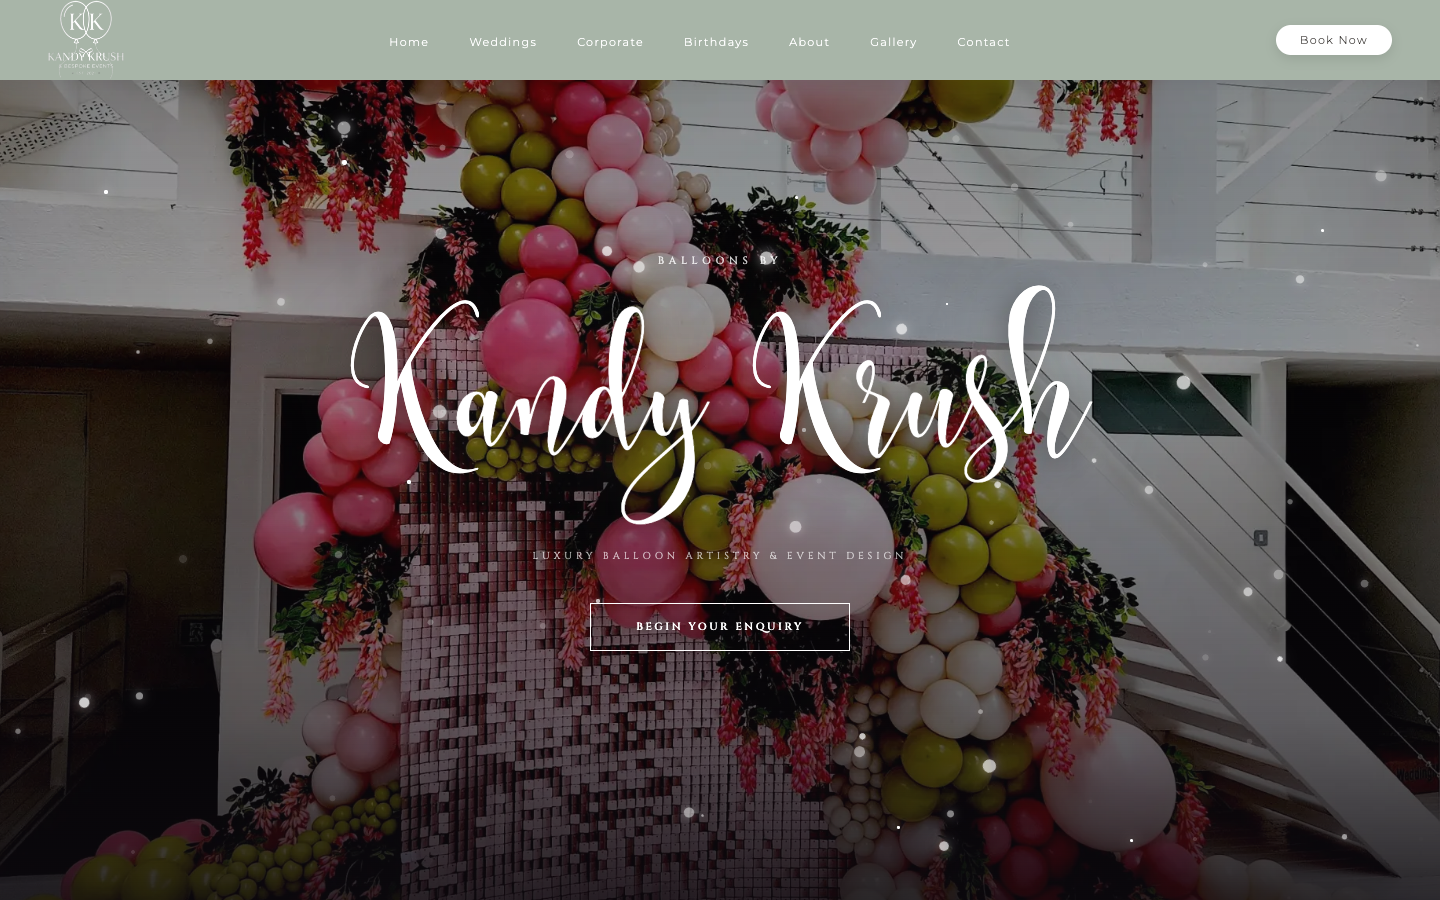
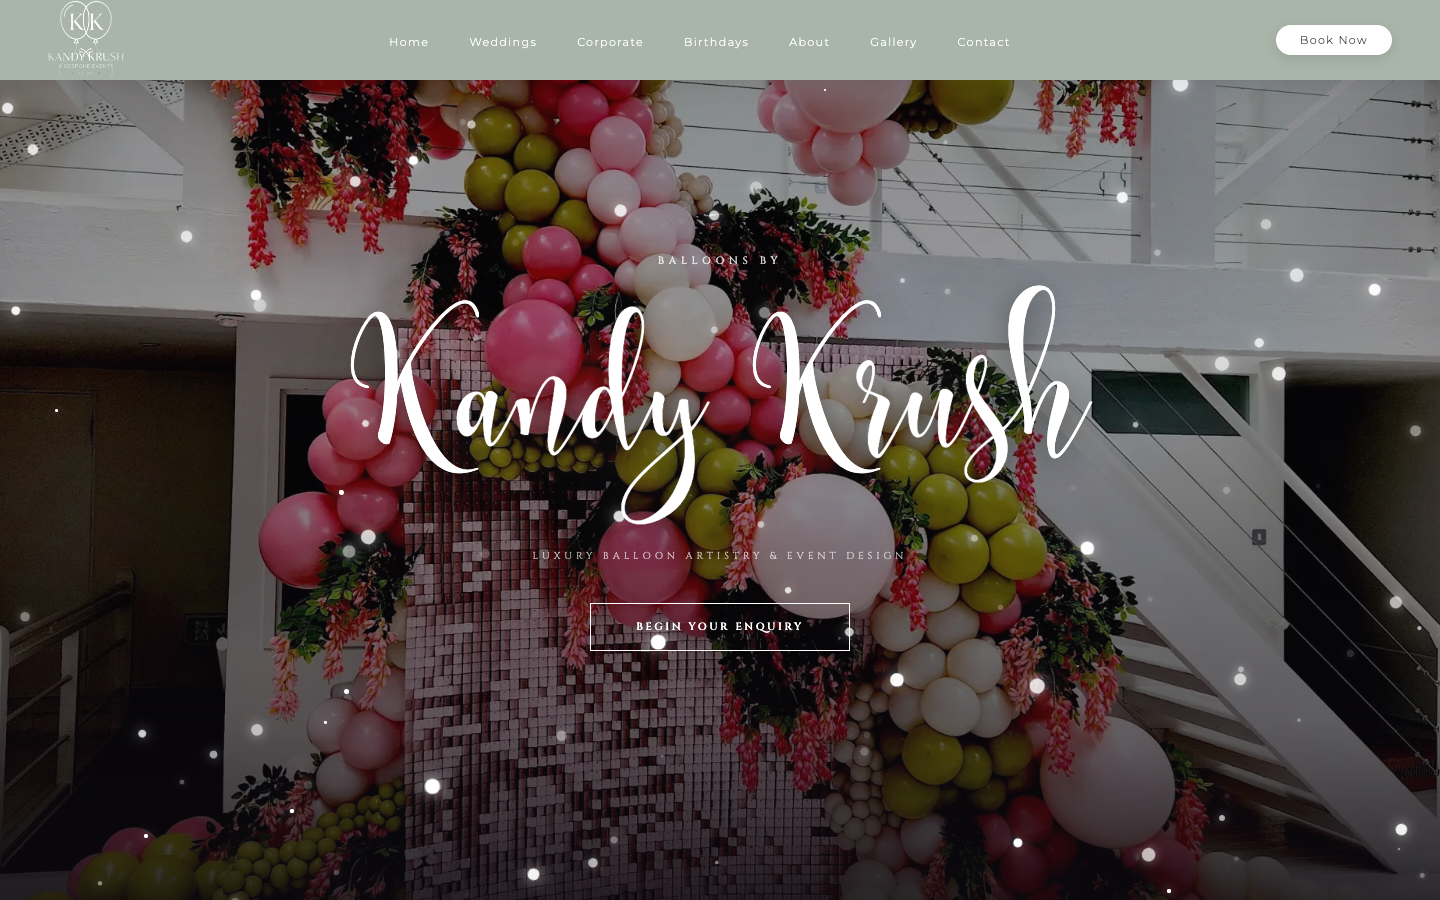
Use static screenshot for Kandy Krush hero card (X-Frame-Options blocks iframe)

diff --git a/index.html b/index.html
@@ -127,10 +127,8 @@
                                 </div>
                                 <span class="chrome-url">kandykrush.co.uk</span>
                             </div>
-                            <div class="preview-iframe-wrap" id="mobilePreviewWrap">
-                                <iframe sandbox="allow-same-origin"
-                                    data-src="https://kandykrush.co.uk/" scrolling="no"
-                                    title="Kandy Krush website preview"></iframe>
+                            <div class="preview-iframe-wrap preview-static" id="mobilePreviewWrap">
+                                <img src="images/kandy-krush.webp" alt="Kandy Krush website preview" loading="lazy">
                             </div>
                         </div>
                     </div>
@@ -180,9 +178,8 @@
                             </div>
                             <span class="chrome-url">kandykrush.co.uk</span>
                         </div>
-                        <div class="preview-iframe-wrap" id="previewWrap3">
-                            <iframe sandbox="allow-same-origin" data-src="https://kandykrush.co.uk/" scrolling="no"
-                                title="Kandy Krush website preview"></iframe>
+                        <div class="preview-iframe-wrap preview-static" id="previewWrap3">
+                            <img src="images/kandy-krush.webp" alt="Kandy Krush website preview" loading="lazy">
                         </div>
                     </div>
 

diff --git a/styles.css b/styles.css
@@ -395,6 +395,14 @@ body {
     pointer-events: none;
 }
 
+.preview-iframe-wrap.preview-static img {
+    display: block;
+    width: 100%;
+    height: 100%;
+    object-fit: cover;
+    object-position: top;
+}
+
 /* ═══════════════════════════════
    STATS STRIP
 ═══════════════════════════════ */
